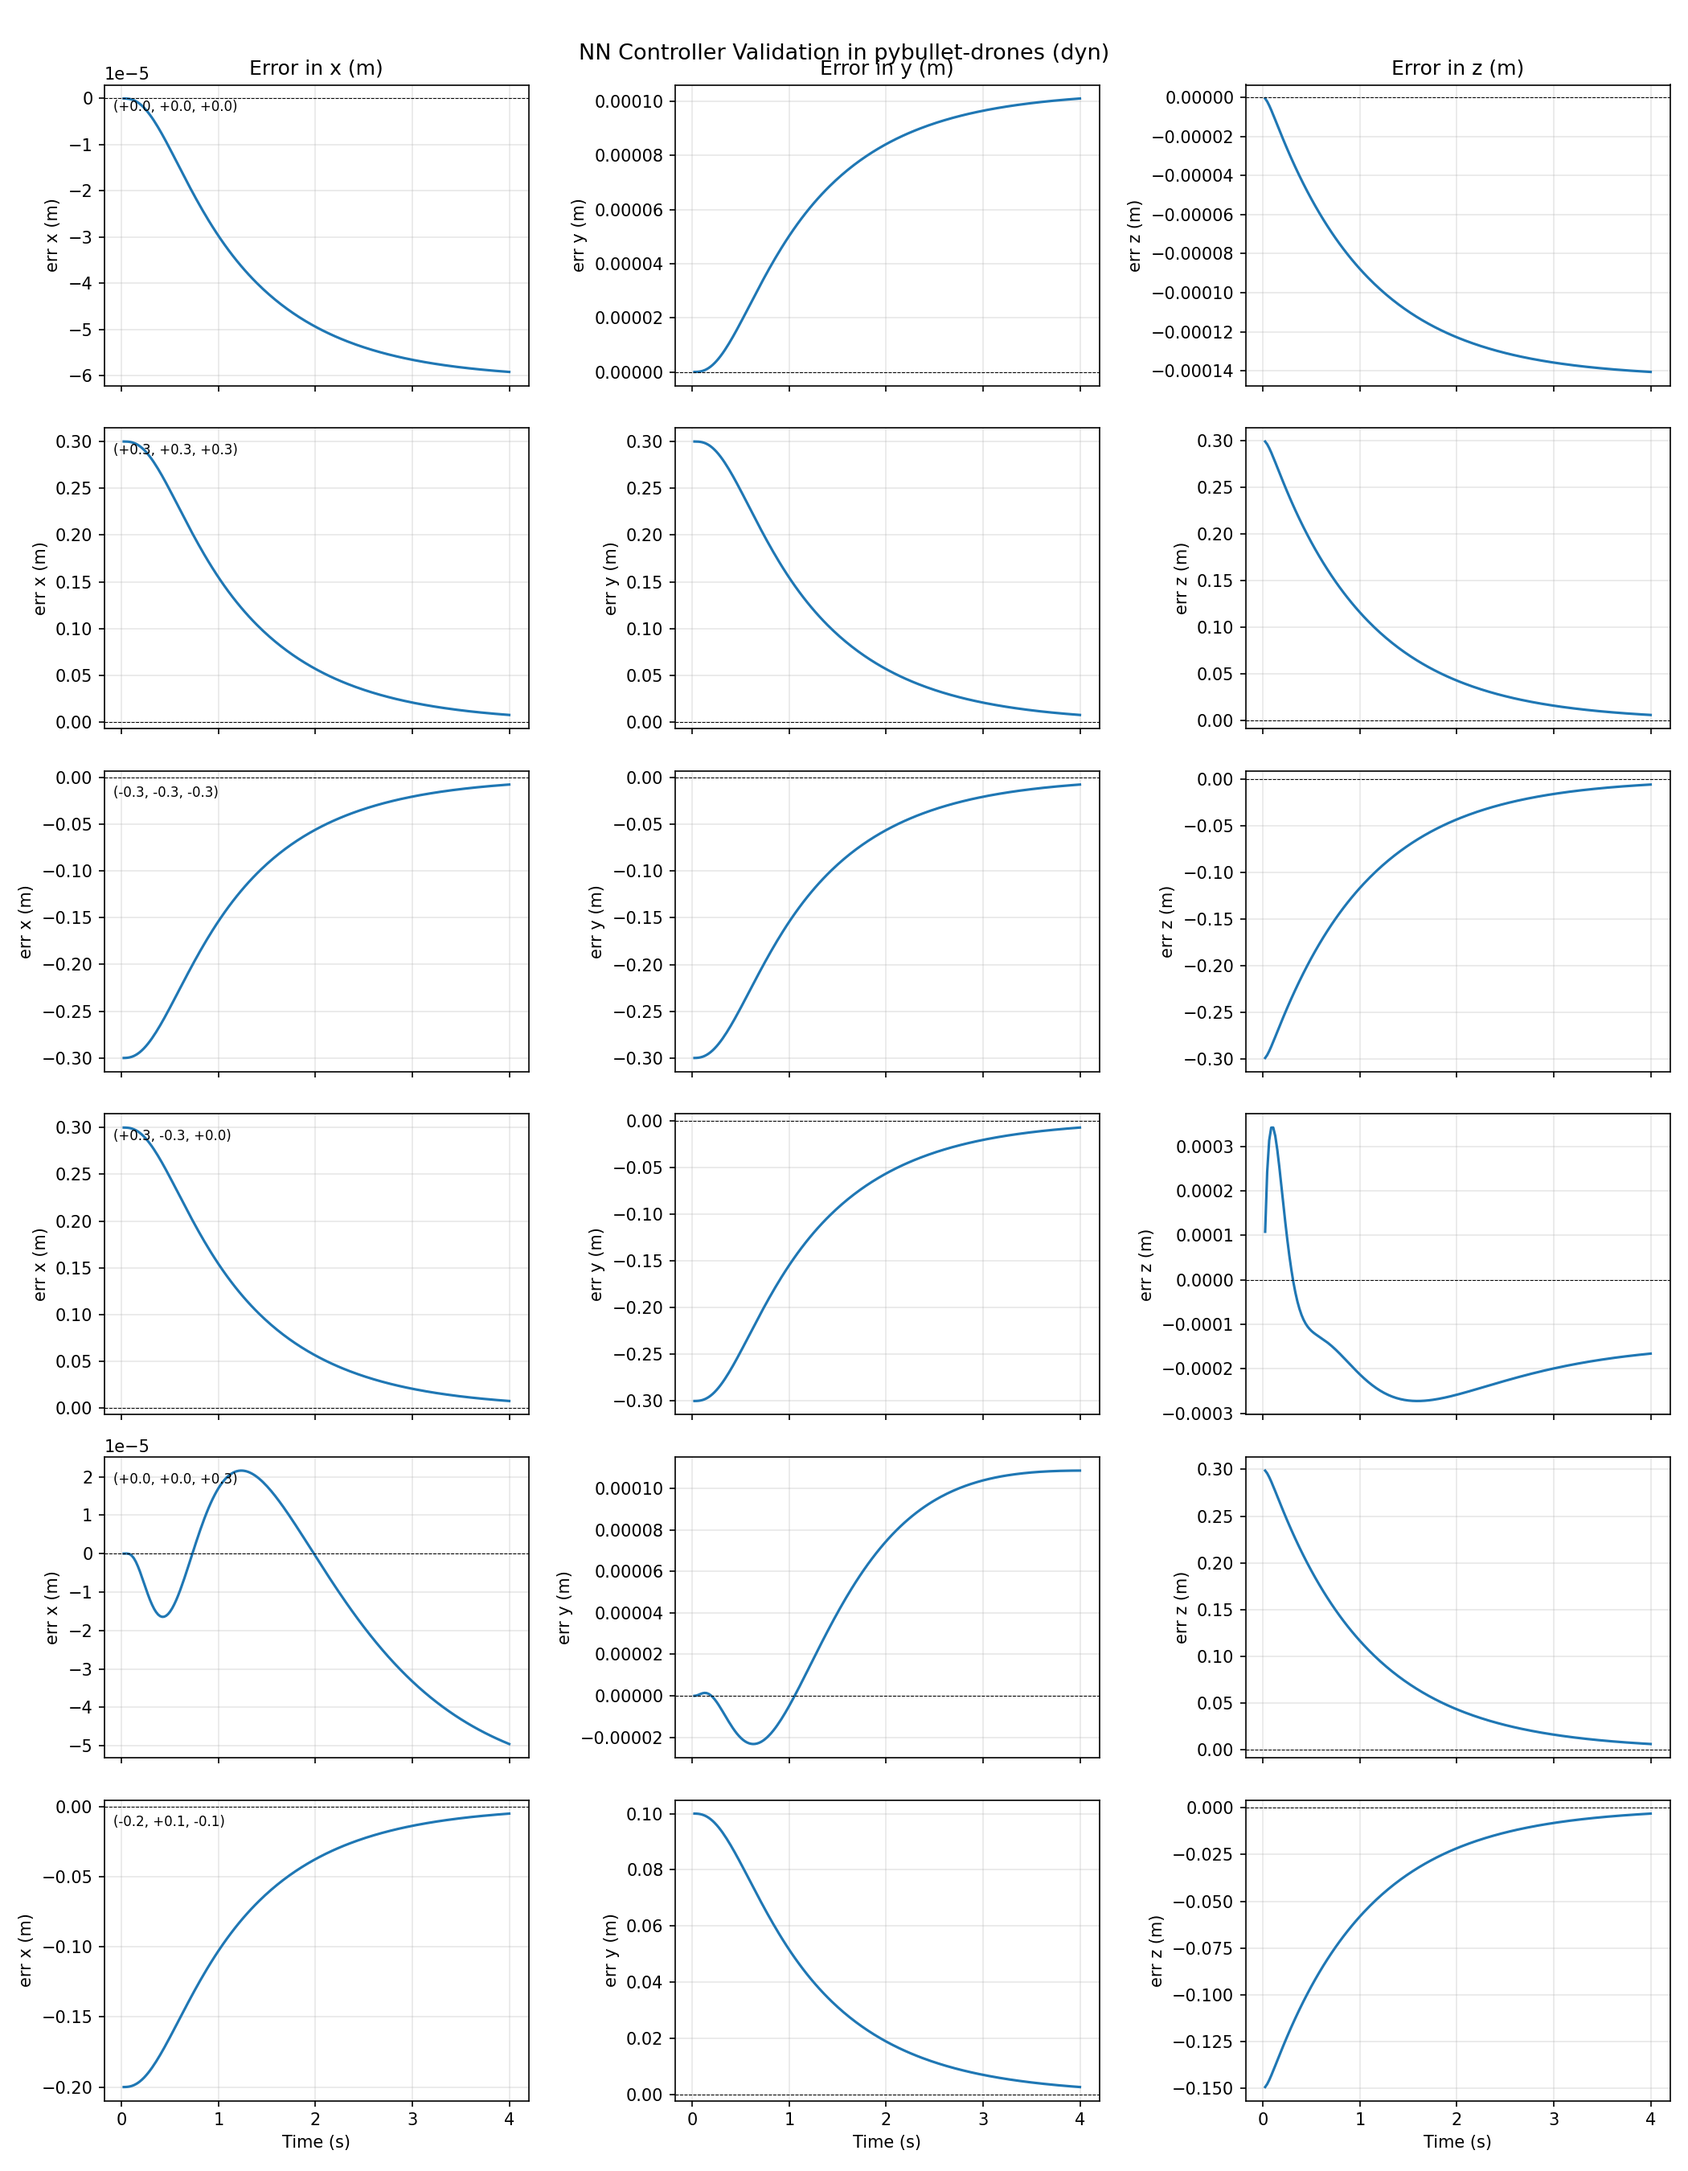
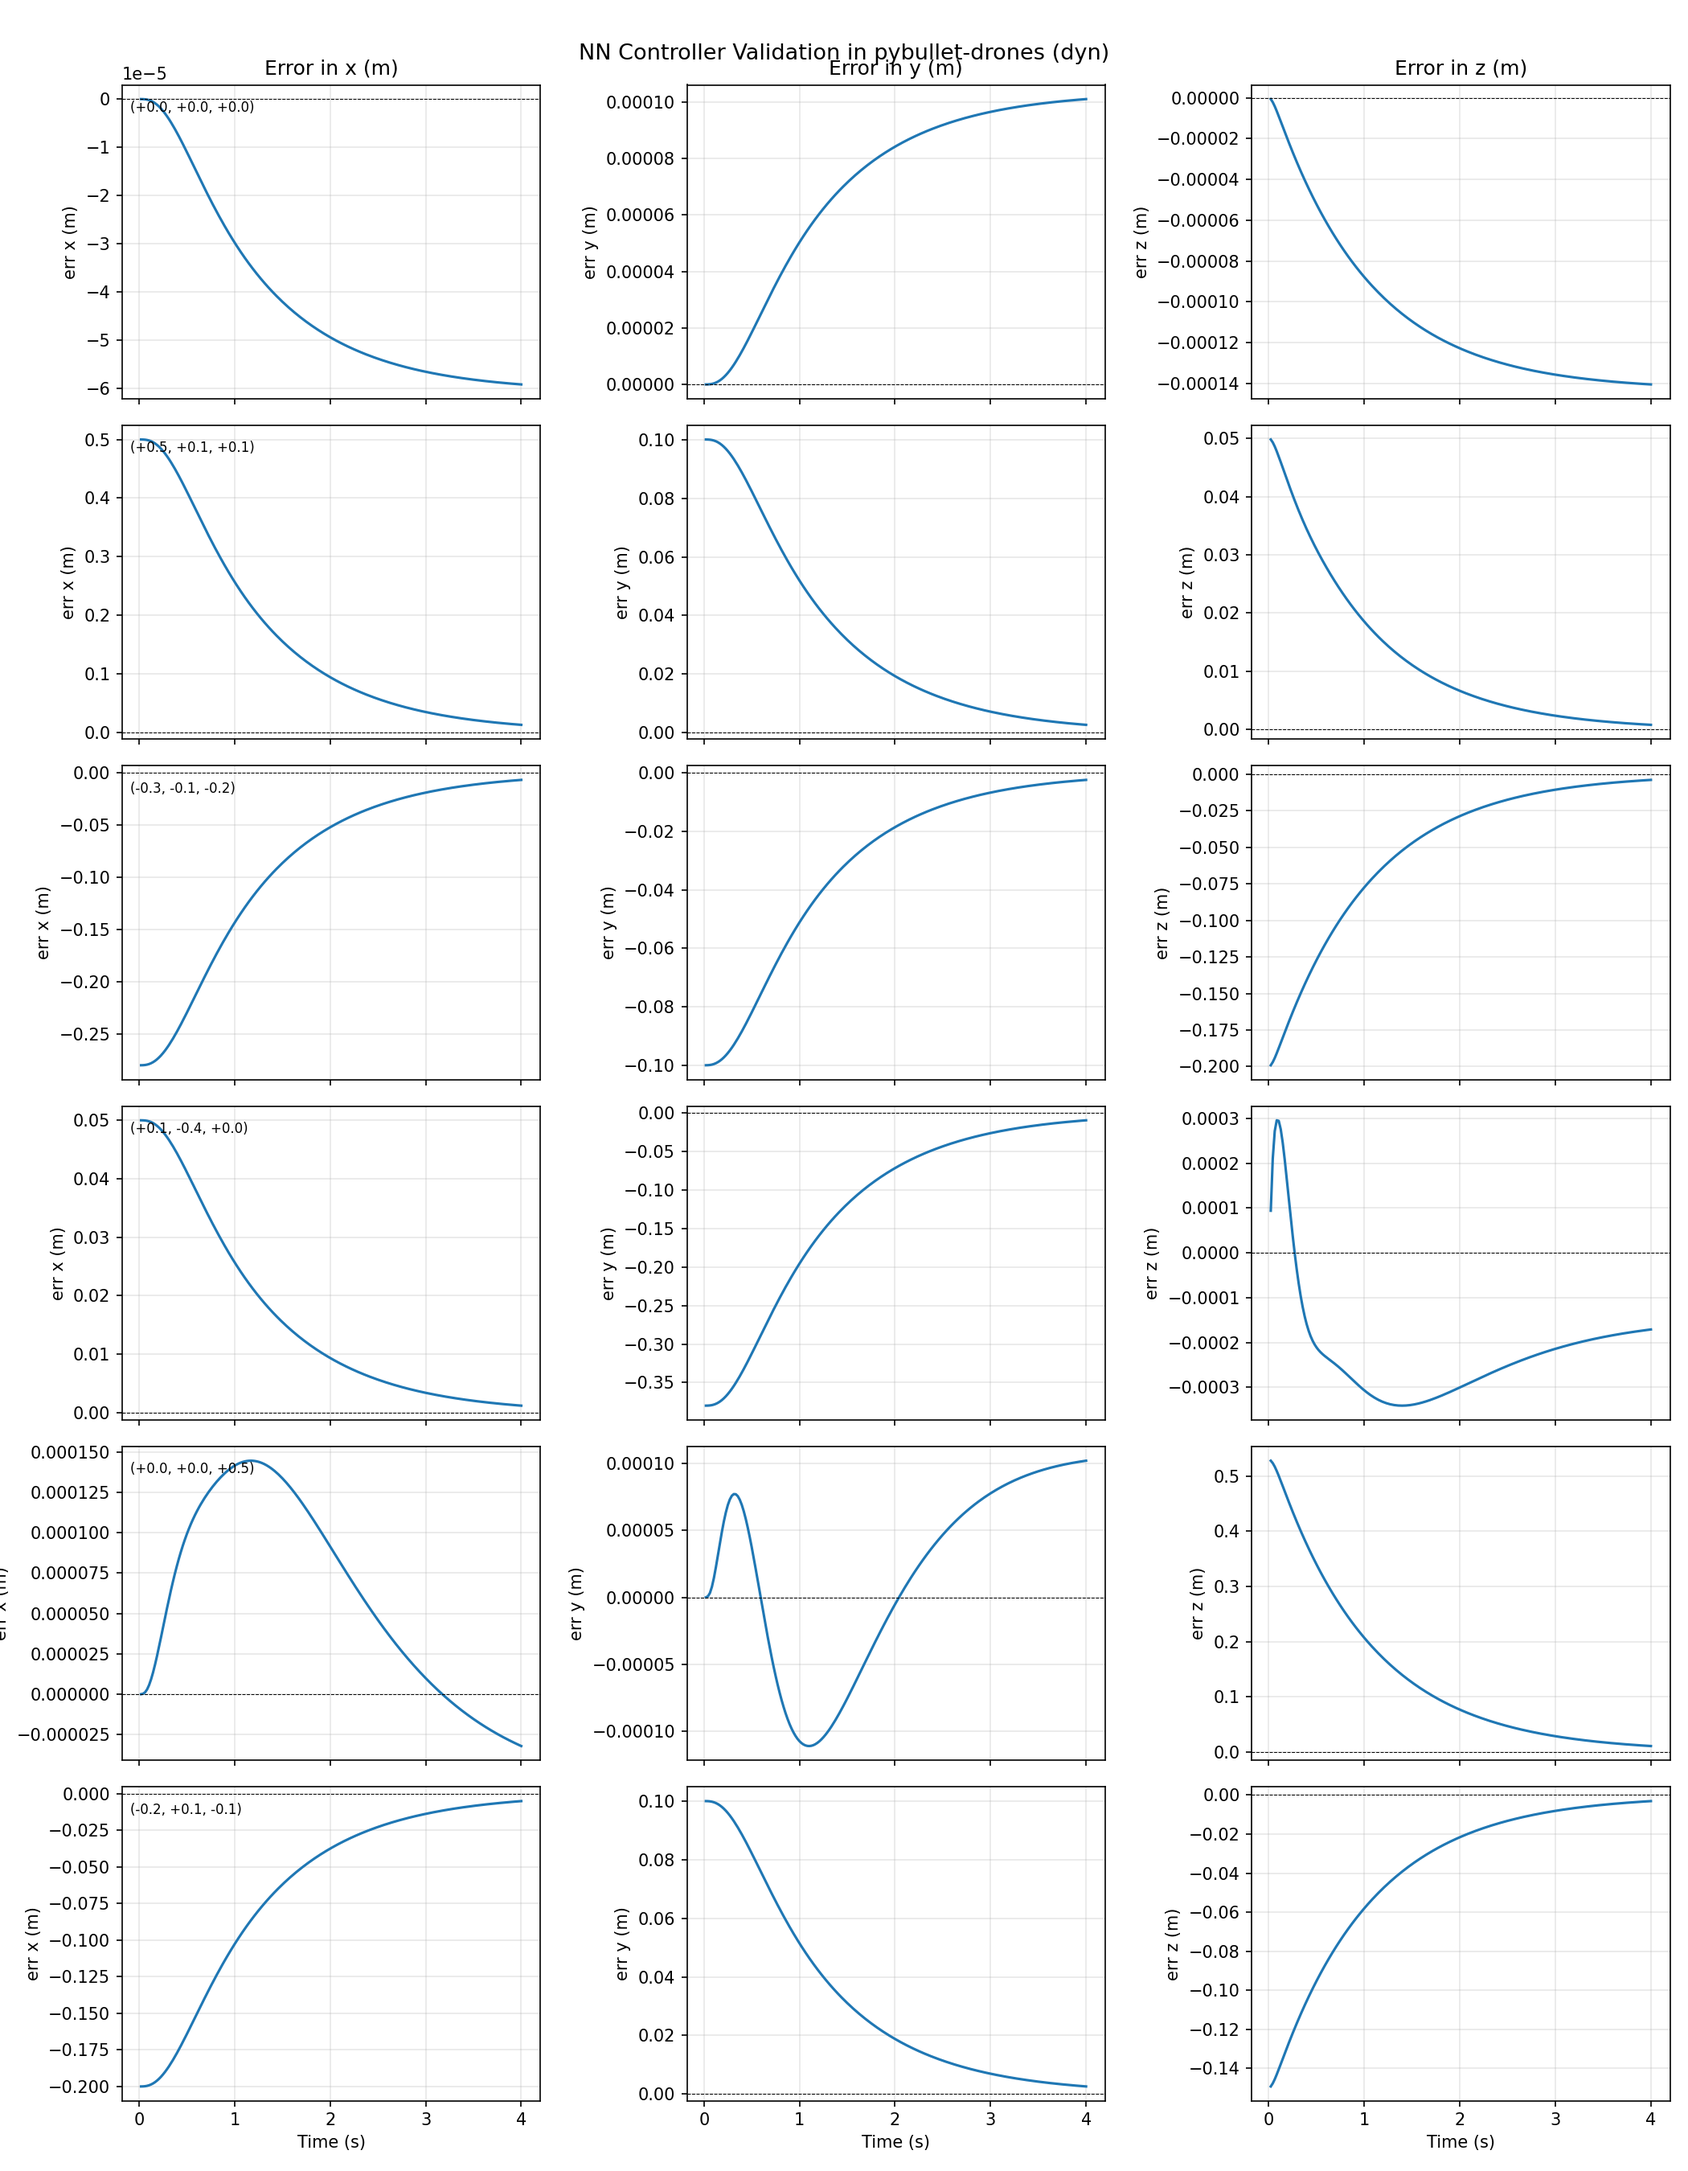
saved all the plots

diff --git a/validate_nn_pybullet.py b/validate_nn_pybullet.py
@@ -395,10 +395,10 @@ if __name__ == "__main__":
     # ── Test offsets from target (same cube as training ±0.3m) ──
     test_offsets = [
         (0.0,  0.0,  0.0),     # already at target (trivial)
-        (0.3,  0.3,  0.3),     # cube corner
-        (-0.3, -0.3, -0.3),    # opposite corner
-        (0.3, -0.3,  0.0),     # edge
-        (0.0,  0.0,  0.3),     # above target
+        (0.5,  0.1,  0.05),     # cube corner
+        (-0.28, -0.1, -0.2),    # opposite corner
+        (0.05, -0.38,  0.0),     # edge
+        (0.0,  0.0,  0.53),     # above target
         (-0.2,  0.1, -0.15),   # random
     ]
 
